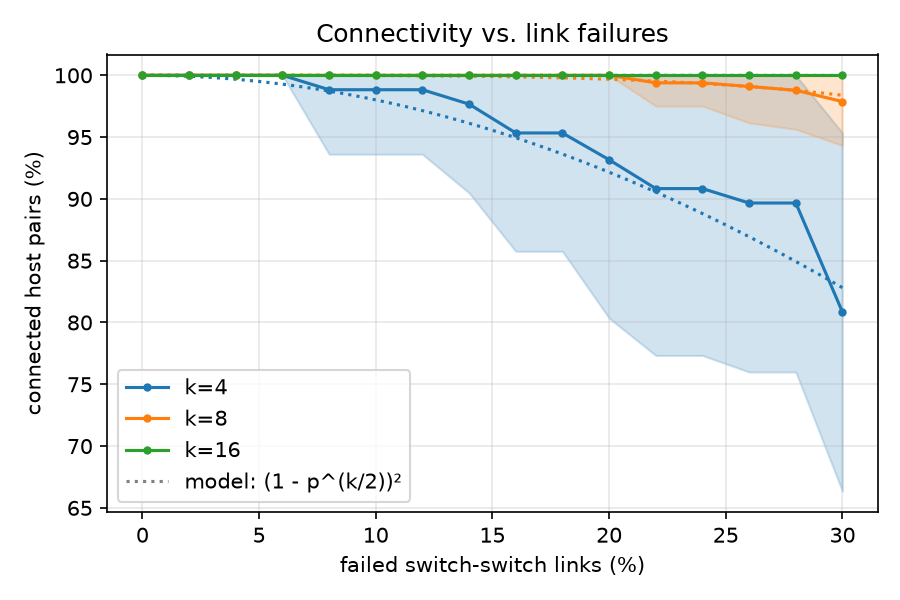
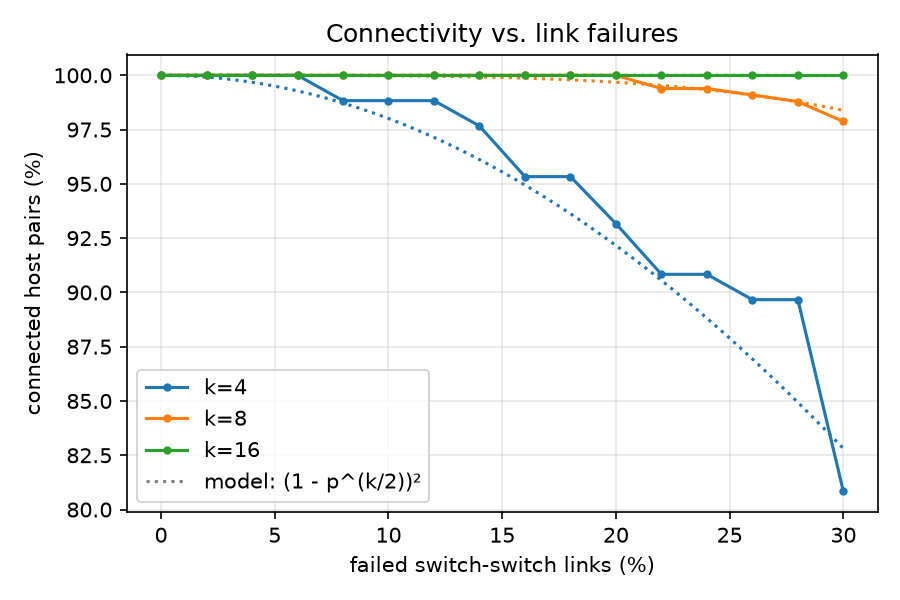
Remove shaded std band from failure experiment plots for cleaner presentation

diff --git a/ex1/fattree.py b/ex1/fattree.py
@@ -387,8 +387,6 @@ def plot_failures(rows, ks, rates, figures_dir):
         for k in ks:
             means, stds = series(k, key, scale)
             ax.plot(rates, means, "o-", ms=3, color=colors[k], label=f"k={k}")
-            ax.fill_between(rates, [m - s for m, s in zip(means, stds)],
-                            [min(m + s, cap) for m, s in zip(means, stds)], color=colors[k], alpha=0.2)
             if model is not None and not shared_model:
                 ax.plot(dense, [model(k, p) * scale for p in dense], ":", color=colors[k])
         if model is not None and shared_model:
